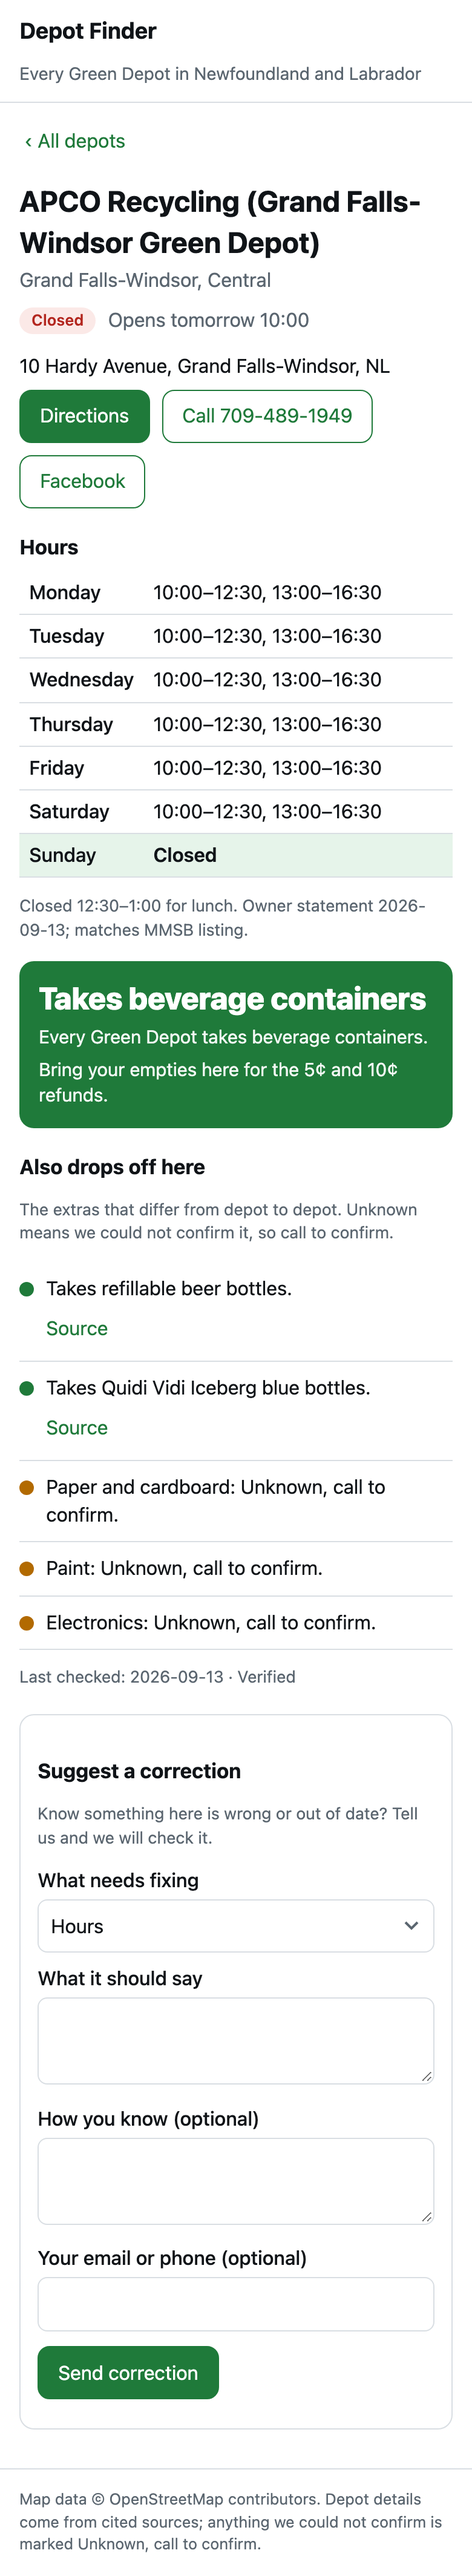
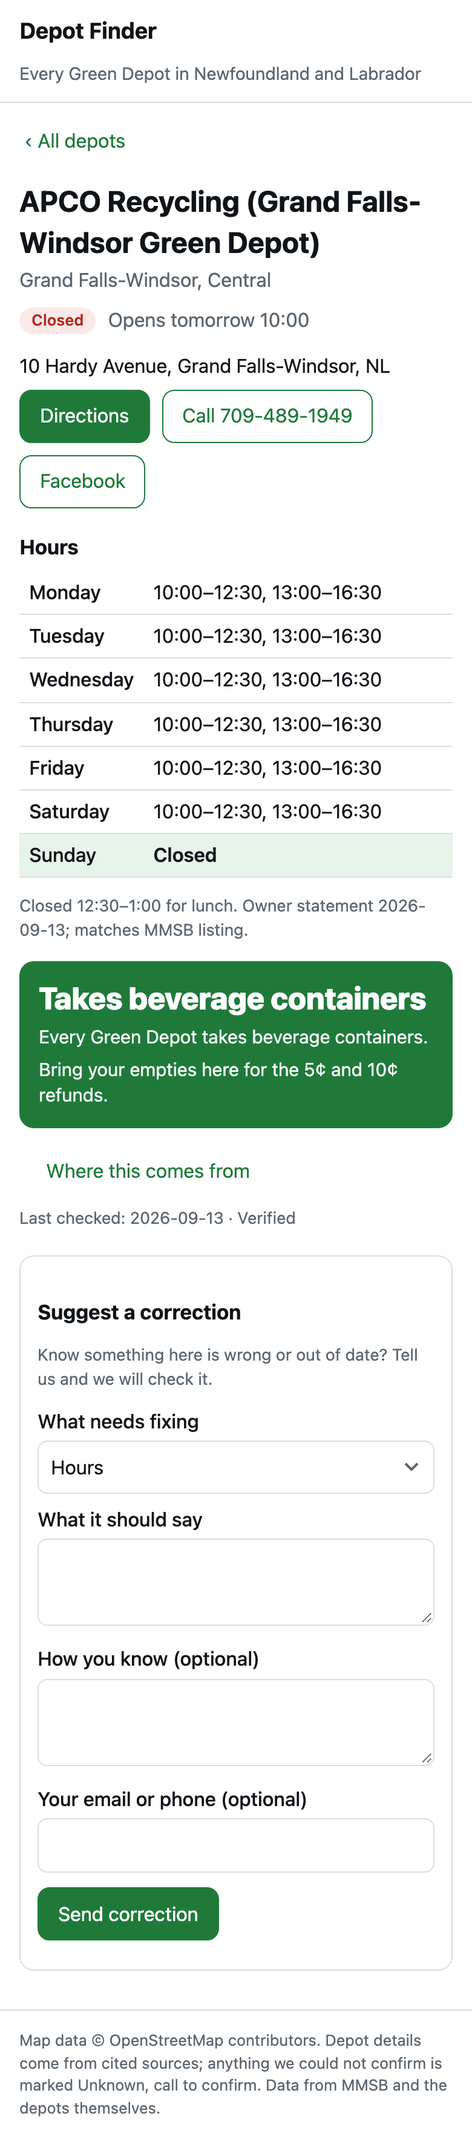
README + screenshots after removing the extras; gate 64/64 at 12da8bf

diff --git a/README.md b/README.md
@@ -1,12 +1,12 @@
 # Depot Finder
 
-Every Green Depot in Newfoundland and Labrador on one map, with hours, phone, open-now, and what each one accepts beyond beverage containers.
+Every Green Depot in Newfoundland and Labrador on one map, with hours, phone and open-now. The headline is the point: every one of them takes beverage containers.
 
-Every Green Depot takes MMSB beverage containers. What differs by depot is the five variables this app tracks: refillable beer bottles, Quidi Vidi Iceberg blue bottles, paper and cardboard, paint, and electronics. Each depot gets **Yes / No / Unknown** per variable. Every Yes or No carries a citation (URL, date fetched, the quoted line) and a saved copy of the source page under `docs/sources/`. Unknown means "call to confirm", never a guess.
+The app shows where and when. It deliberately does NOT show the five extras (refillable beer bottles, Iceberg bottles, paper and cardboard, paint, electronics): the research in `data/depots.json` found a cited answer for too few depots to publish (most rows are Unknown), so the app keeps to what is confirmed. The research is kept in the data, cited, for when it fills in.
 
 ![Depot Finder on desktop](docs/shots/map-desktop.png)
 
-## What is in the data (2026-09-13)
+## What is in the data (2026-09-13, research only, not shown in the app)
 
 | | Yes | No | Unknown |
 |---|---|---|---|
